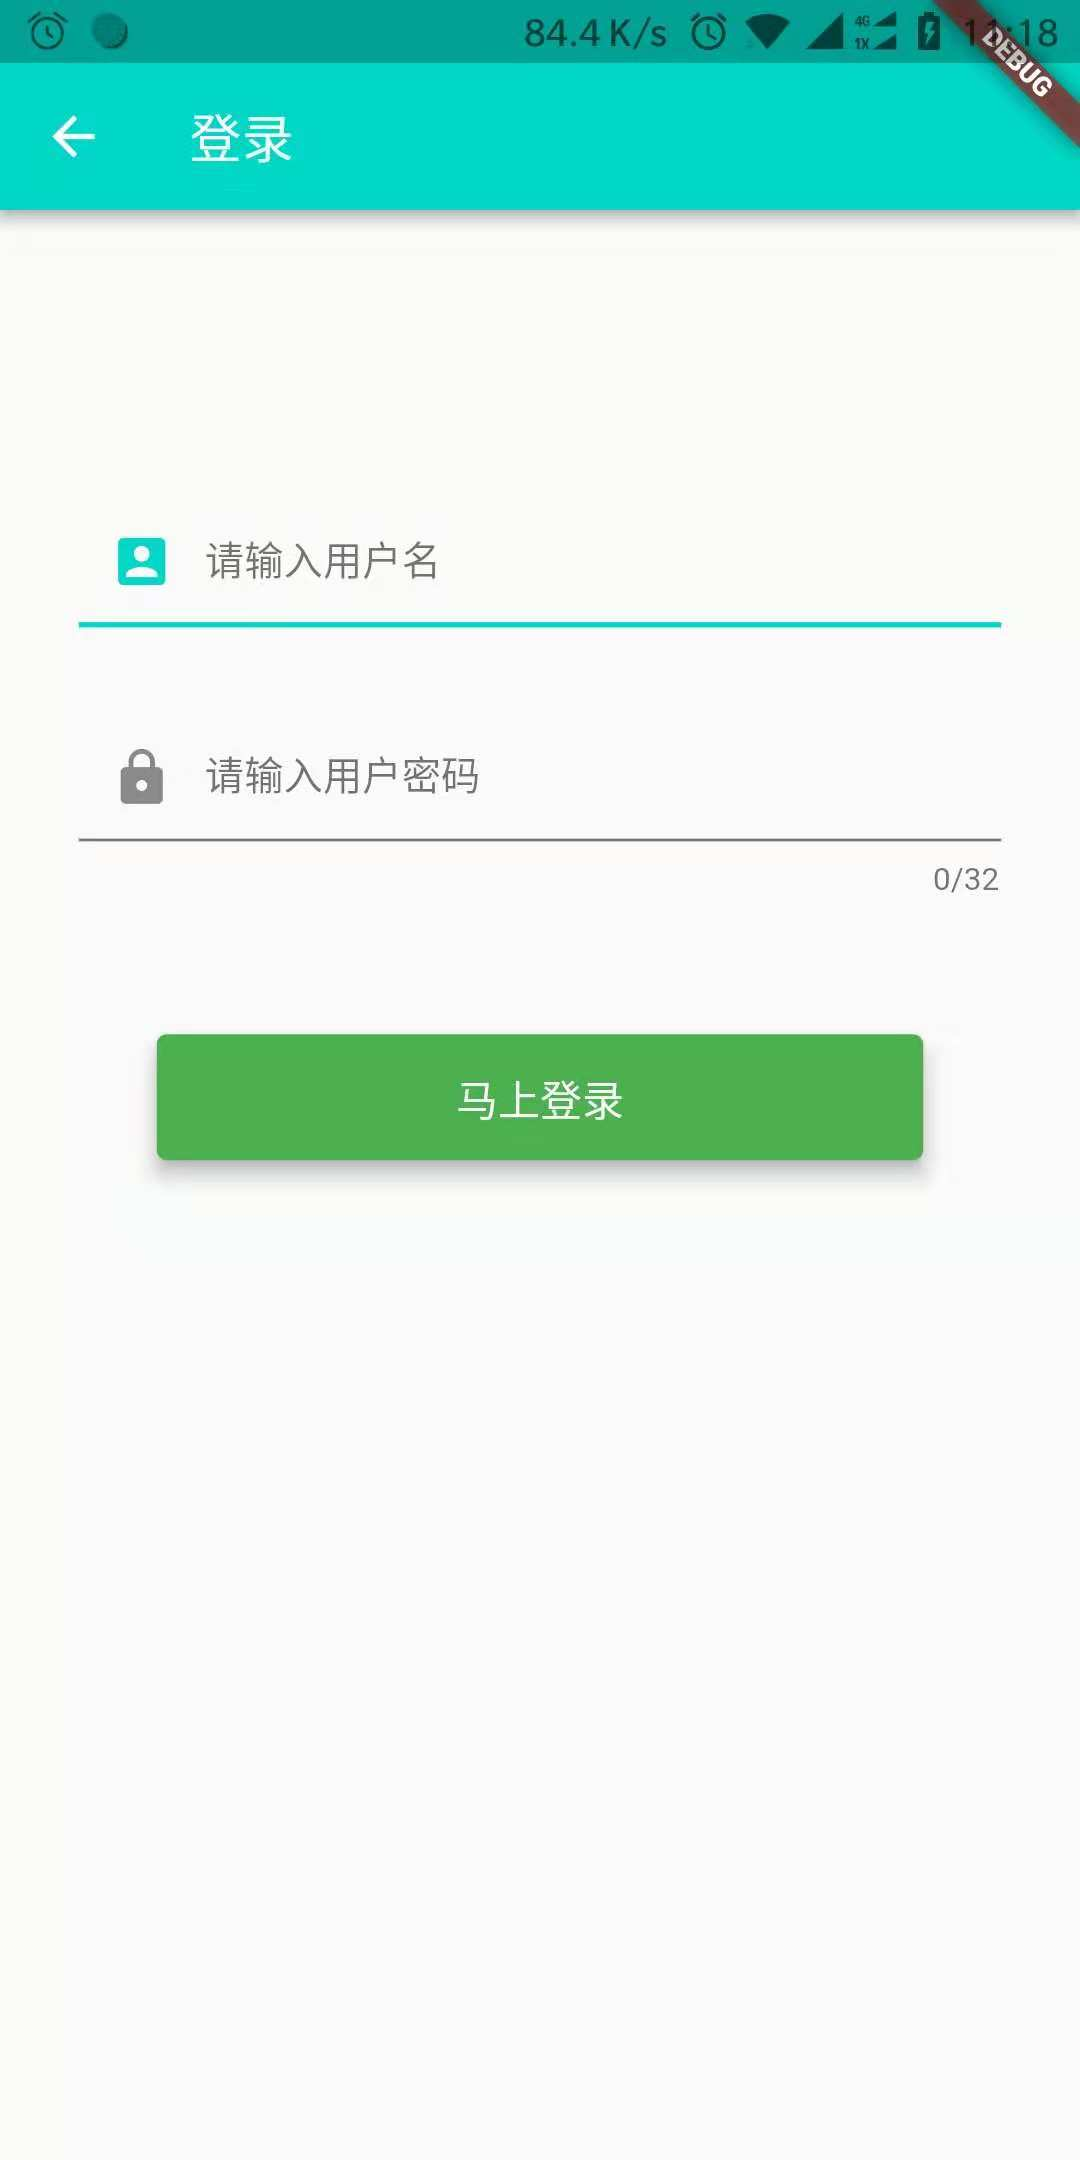
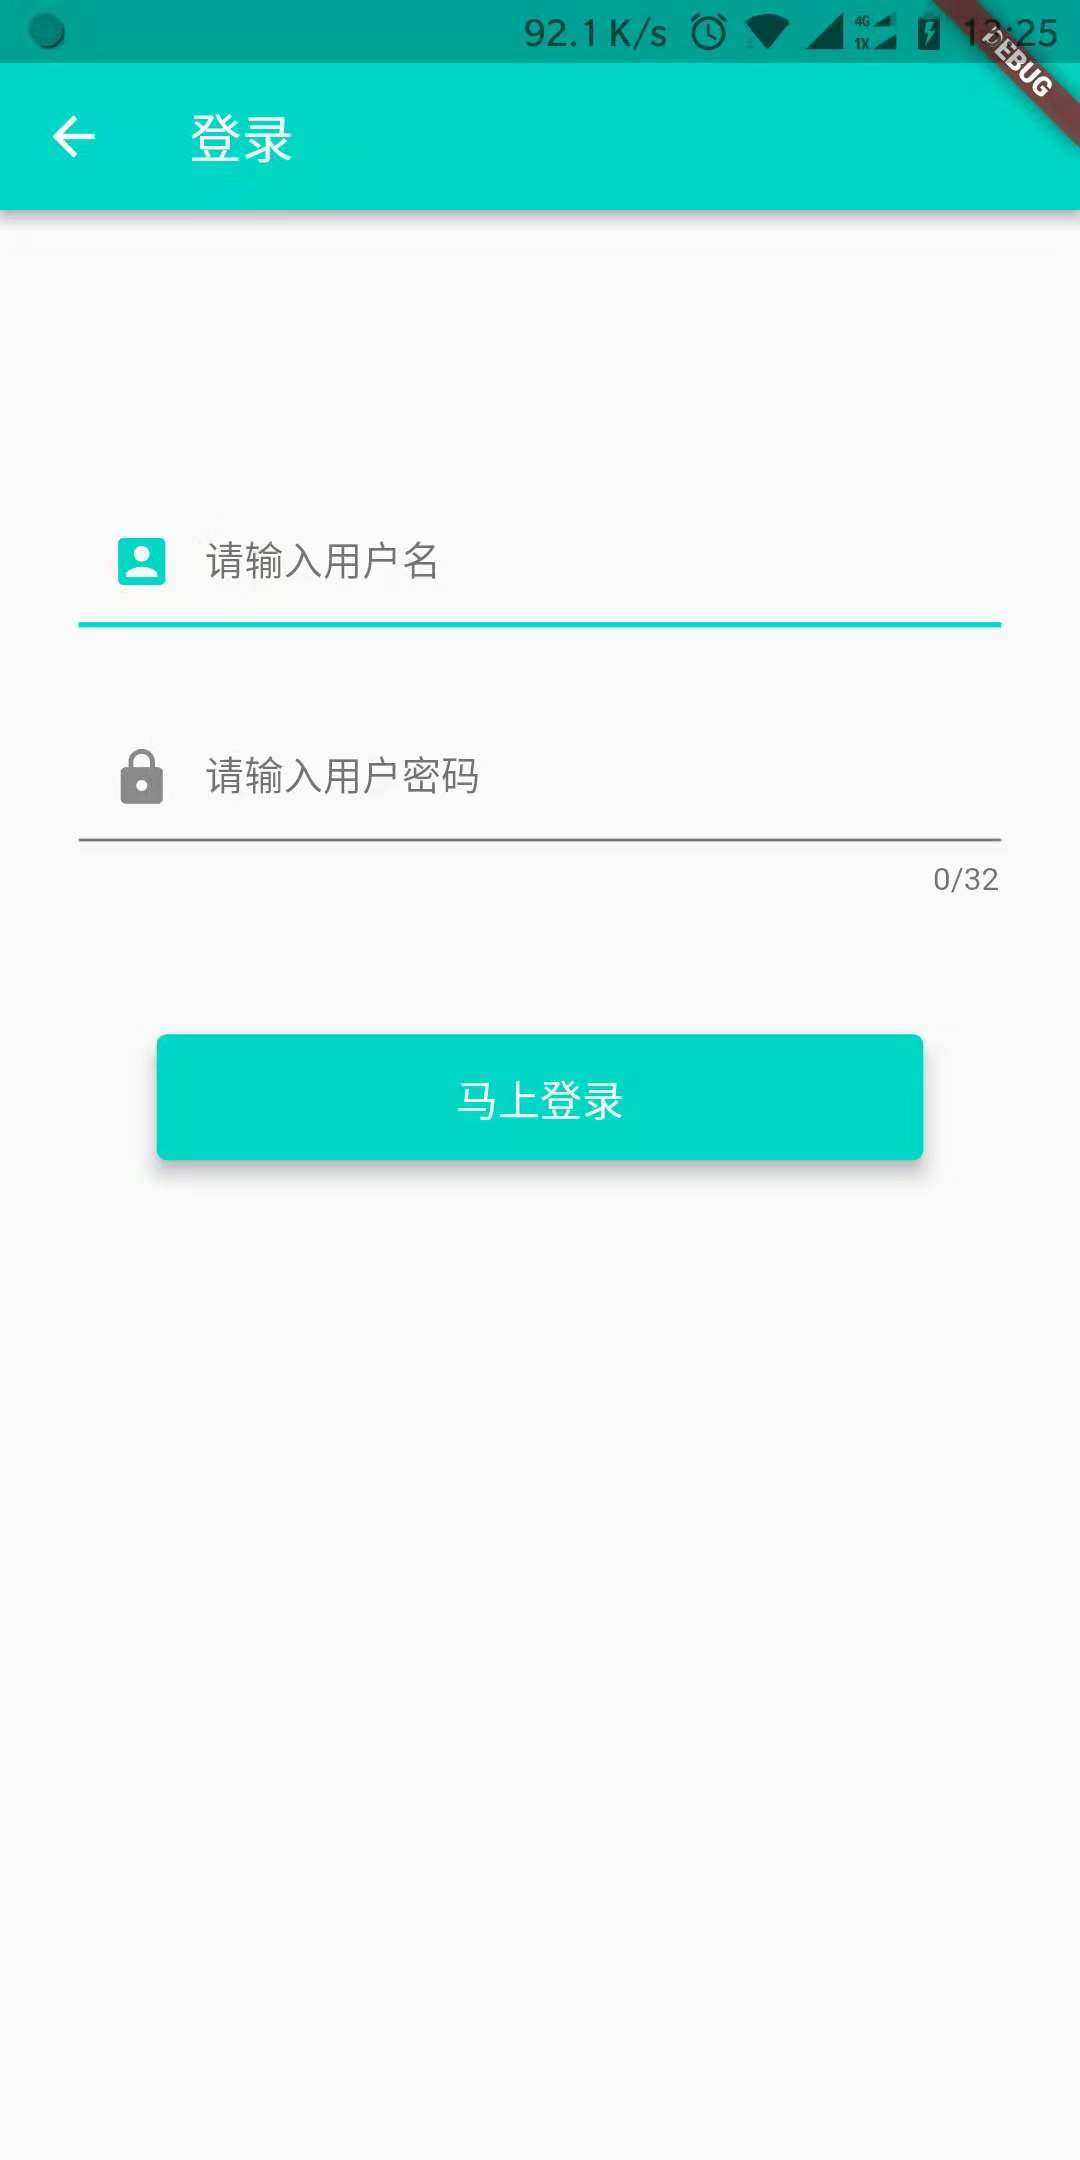
登录按钮修改

diff --git a/lib/login/LoginPage.dart b/lib/login/LoginPage.dart
@@ -67,7 +67,7 @@ class _LoginPageState extends State<LoginPage> {
               padding: new EdgeInsets.fromLTRB(leftRightPadding,
                   topBottomPadding, leftRightPadding, topBottomPadding),
               child: new Card(
-                color: Colors.green,
+                color:Color.fromARGB(255, 0, 215, 198),
                 elevation: 6.0,
                 child: new FlatButton(
                     onPressed: () {

diff --git a/README.md b/README.md
@@ -12,11 +12,6 @@
 
 ## 截图
 
-- **启动页**
-<img src="https://github.com/zhibuyu/Flutter_Stocks/blob/master/show_pics/splsh.jpg?raw=true" width="280"/> 
-
-</br>
-
 - **主界面**
 
 <img src="https://github.com/zhibuyu/Flutter_Stocks/blob/master/show_pics/main_news.jpg?raw=true" width="280"/> <img src="https://github.com/zhibuyu/Flutter_Stocks/blob/master/show_pics/main_index.jpg?raw=true" width="280"/> <img src="https://github.com/zhibuyu/Flutter_Stocks/blob/master/show_pics/main_husheng.jpg?raw=true" width="280"/><img src="https://github.com/zhibuyu/Flutter_Stocks/blob/master/show_pics/my.jpg?raw=true" width="280"/>
@@ -35,11 +30,6 @@
 
 </br>
 
-- **登录**
-
-<img src="https://github.com/zhibuyu/Flutter_Stocks/blob/master/show_pics/login.jpg?raw=true" width="280"/> 
-
-</br>
 
 - **我的**
 
@@ -47,7 +37,8 @@
 <img src="https://github.com/zhibuyu/Flutter_Stocks/blob/master/show_pics/my_wechat.jpg?raw=true" width="280"/> <img src="https://github.com/zhibuyu/Flutter_Stocks/blob/master/show_pics/my_feedback.jpg?raw=true" width="280"/>
 </br>
 
-- **侧边栏**
+- **启动页、登录、侧边栏**
+<img src="https://github.com/zhibuyu/Flutter_Stocks/blob/master/show_pics/splsh.jpg?raw=true" width="280"/> <img src="https://github.com/zhibuyu/Flutter_Stocks/blob/master/show_pics/login.jpg?raw=true" width="280"/> 
 
 <img src="https://github.com/zhibuyu/Flutter_Stocks/blob/master/show_pics/slide_menu.jpg?raw=true" width="280"/> 
 
